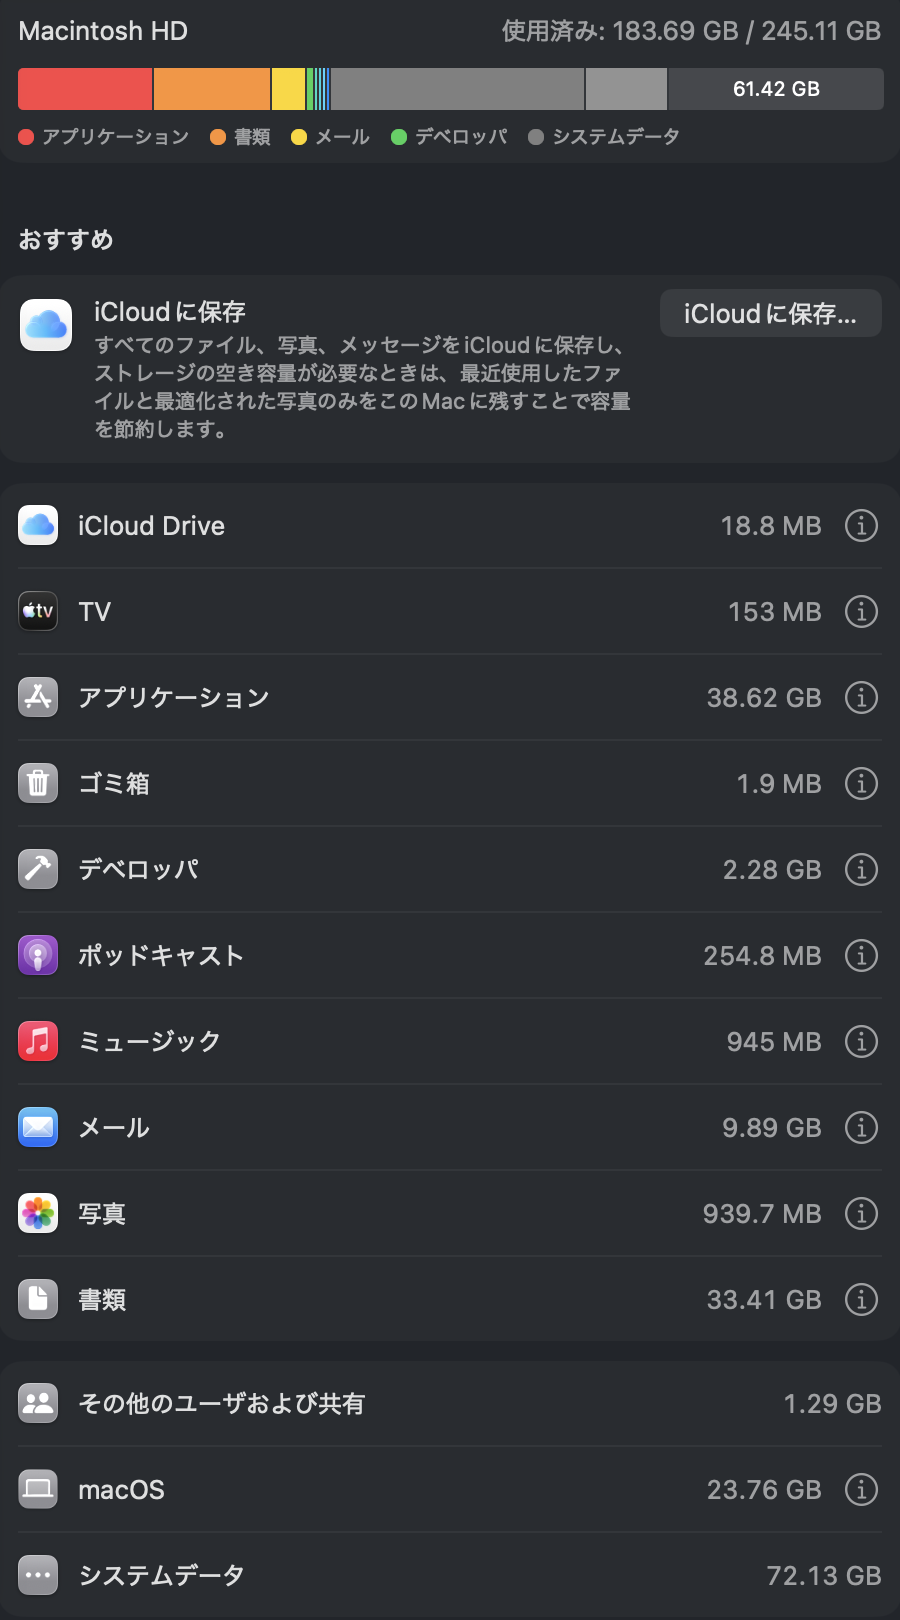
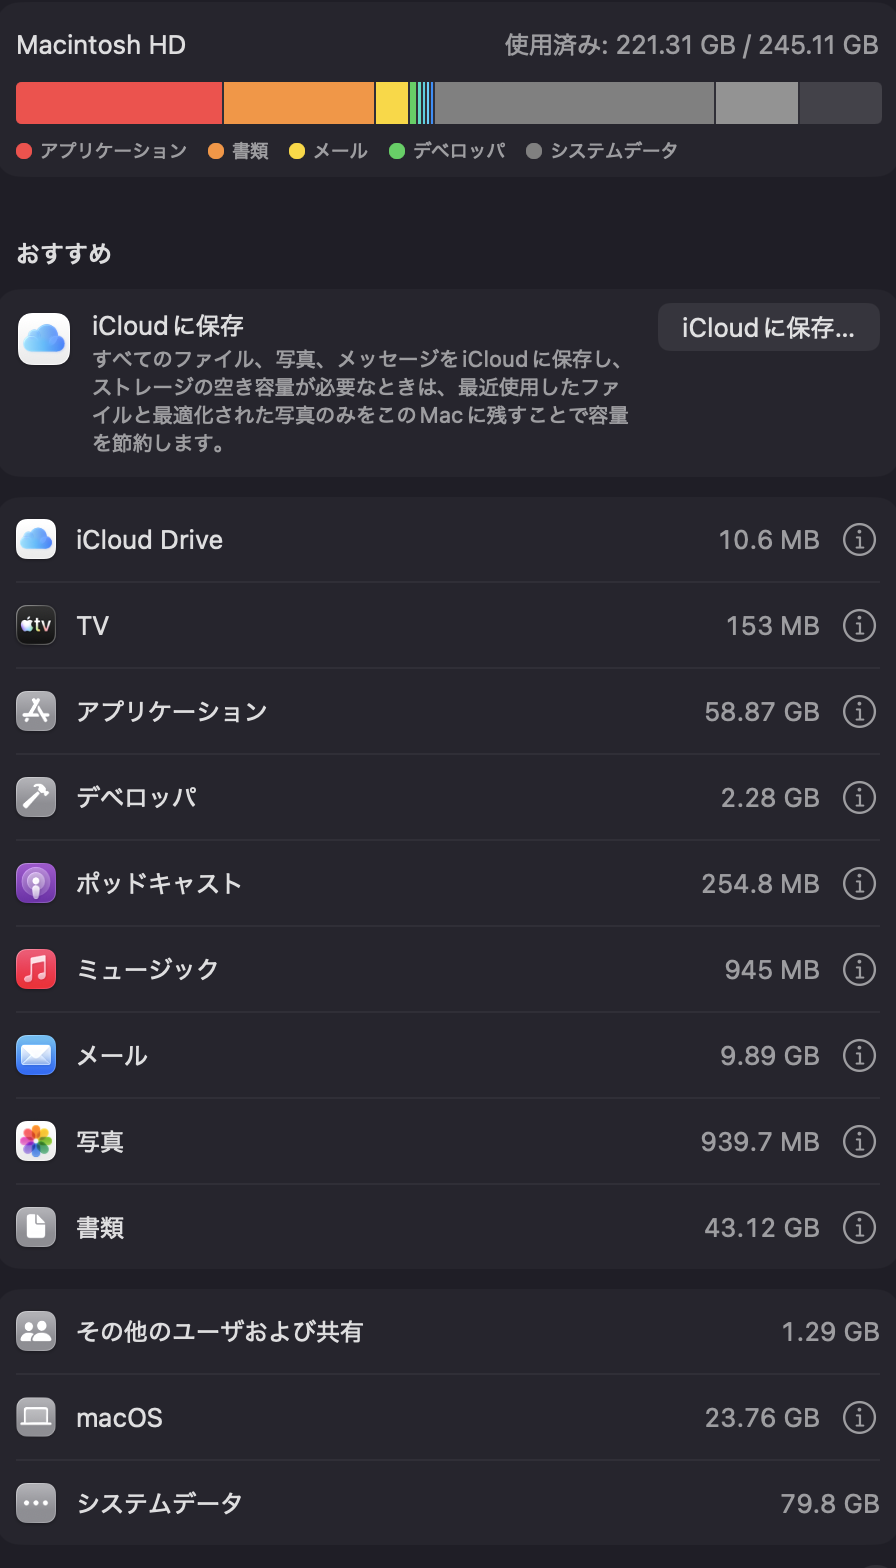
docs: update before screenshot and Real Results numbers (45GB recovered)

diff --git a/README.md b/README.md
@@ -35,18 +35,11 @@ $ devpurge -n
 
 ## Real Results
 
-On one machine, devpurge recovered **9.2GB** that CleanMyMac couldn't see:
+On one machine, **45GB recovered** — from 221GB down to 176GB:
 
-| Before | After |
+| Before (221 GB used) | After (176 GB used) |
 |--------|-------|
-| ![System Data: 72.1GB](docs/images/before-cleanup.png) | ![System Data: 62.9GB](docs/images/after-cleanup-final.png) |
-| System Data: **72.1 GB** | System Data: **62.9 GB** |
-
-CleanMyMac found 3GB of generic junk. devpurge found an additional 2.8GB of hidden dev caches — Claude Desktop VM bundles, Playwright browsers, uv Python cache — that no other tool even knows about.
-
-| CleanMyMac result | What it missed |
-|-------------------|----------------|
-| ![CleanMyMac: 3GB](docs/images/cleanmymac-05-results.png) | Claude Desktop, Cursor, uv, Playwright, Bun, Puppeteer — **invisible to CleanMyMac** |
+| ![Before: 221GB](docs/images/before-cleanup.png) | ![After: 176GB](docs/images/after-cleanup-final.png) |
 
 ## Install
 
